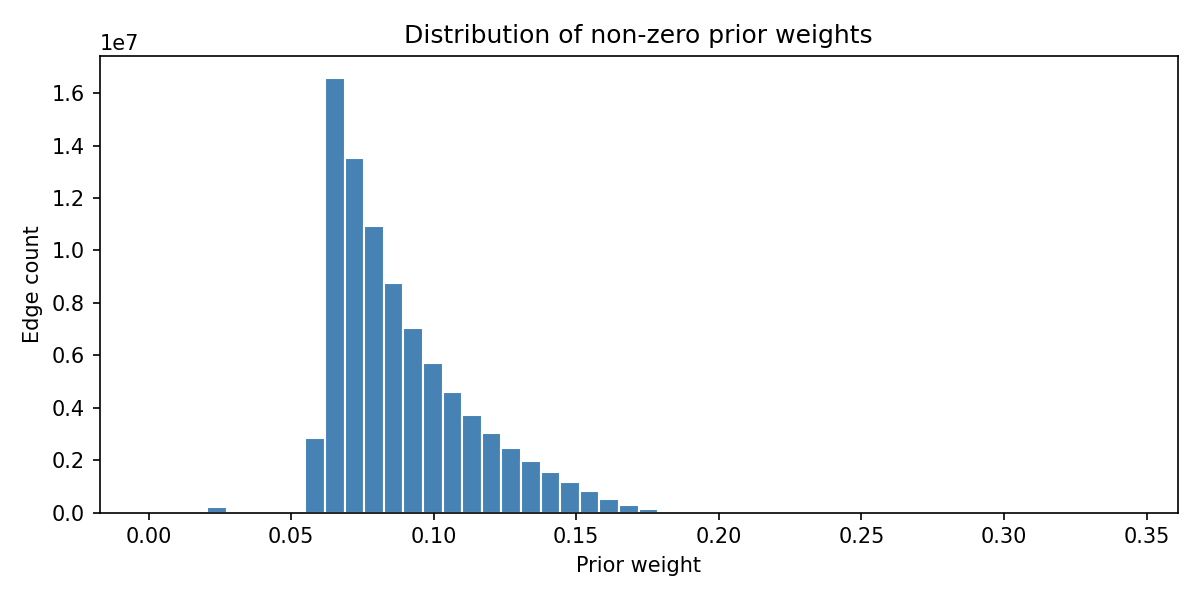
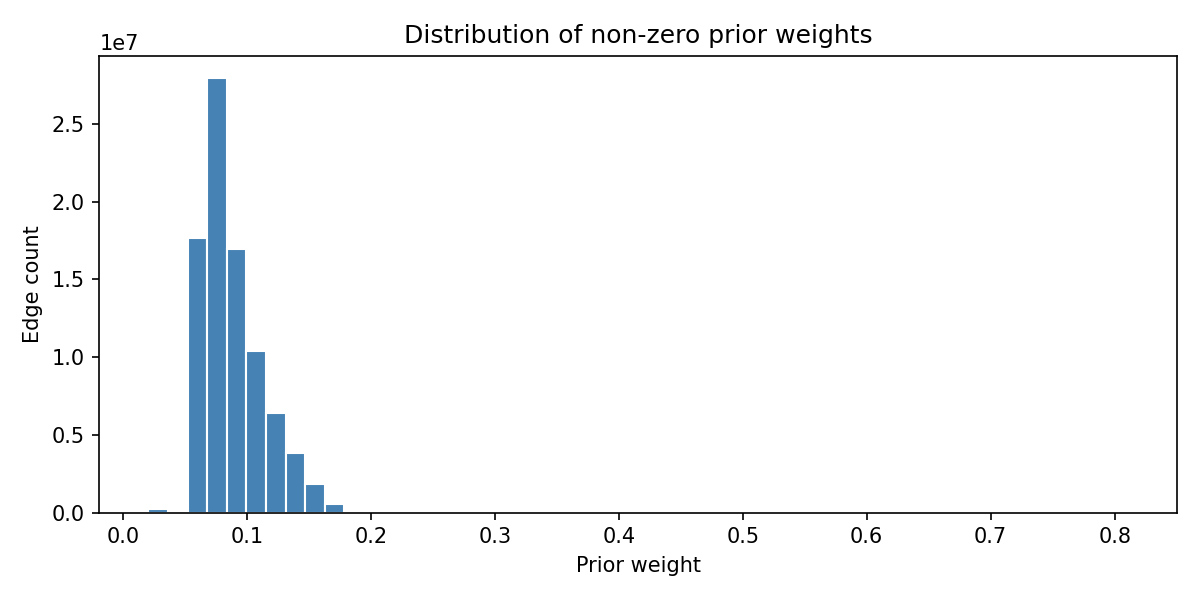
update plot scripts and prior distribution figure

diff --git a/pipeline_src/knockouts/plot_knockouts.py b/pipeline_src/knockouts/plot_knockouts.py
@@ -30,7 +30,11 @@ warnings.filterwarnings("ignore")
 matplotlib.rcParams.update({
     "font.family":     "sans-serif",
     "font.sans-serif": ["Arial", "Helvetica", "DejaVu Sans"],
-    "font.size":       9,
+    "font.size":       12,
+    "axes.labelsize":  13,
+    "xtick.labelsize": 12,
+    "ytick.labelsize": 12,
+    "legend.fontsize": 12,
     "figure.dpi":      150,
     "pdf.fonttype":    42,
     "ps.fonttype":     42,
@@ -136,10 +140,11 @@ def plot_knockout_bar(ko: pd.DataFrame, out_stem: str, dataset: str,
 
     ax.barh(range(len(genes)), scores, color=colors, edgecolor="none", height=0.7)
     ax.set_yticks(range(len(genes)))
-    ax.set_yticklabels(genes, fontsize=8.5)
+    ax.set_yticklabels(genes, fontsize=12)
     ax.invert_yaxis()
 
-    ax.set_xlabel("Perturbative impact  (max‖ΔS(t)‖₂)", fontsize=10)
+    ax.set_xlabel("Perturbative impact  (max‖ΔS(t)‖₂)", fontsize=13)
+    ax.set_ylabel("Genes", fontsize=13)
     ax.spines[["top", "right"]].set_visible(False)
     ax.grid(axis="x", lw=0.4, alpha=0.4)
 
@@ -151,15 +156,9 @@ def plot_knockout_bar(ko: pd.DataFrame, out_stem: str, dataset: str,
     ]
     handles.append(mpatches.Patch(facecolor=UNCHARACTERISED_COLOR,
                                   edgecolor="none", label="Uncharacterised"))
-    ax.legend(handles=handles, fontsize=7.5, frameon=True,
+    ax.legend(handles=handles, fontsize=12, frameon=True,
               framealpha=0.9, edgecolor="#cccccc", loc="lower right",
               labelspacing=0.4)
-
-    fig.suptitle(f"Top {TOP_N} genes by knockout impact", fontsize=12,
-                 fontweight="bold", y=0.995)
-    ax.set_title(f"{dataset}  ·  acute phase  ·  model = {model}  ·  "
-                 f"reduction = {REDUCTION}",
-                 fontsize=8, color="black", pad=2)
 
     fig.tight_layout()
     for ext in ("pdf", "png"):

diff --git a/pipeline_src/inference/plot_piglasso_results.py b/pipeline_src/inference/plot_piglasso_results.py
@@ -189,12 +189,6 @@ def plot_lambda_path(out_stem: str, dpi: int = 200):
     ax.set_xlim(left=lam[0], right=1.0)
     ax.set_xlabel("Regularisation parameter λ", fontsize=13)
     ax.set_ylabel("Number of stable edges", fontsize=13)
-    ax.set_title(
-        "GSE182616  ·  acute phase  ·  n = 513, p = 164  ·  "
-        "solid = with prior (pw = 0.5)  ·  dashed = no prior",
-        fontsize=11, color="black", pad=4,
-    )
-    fig.suptitle("PIGLasso stability path", fontsize=15, fontweight="bold", y=0.995)
 
     handles, labels = ax.get_legend_handles_labels()
     ax.legend(handles, labels, fontsize=9, frameon=True,

diff --git a/pipeline_src/build_prior.py b/pipeline_src/build_prior.py
@@ -100,7 +100,7 @@ def _query_string_batch(
             continue
         if g1 in gene_idx and g2 in gene_idx:
             i, j = gene_idx[g1], gene_idx[g2]
-            w = exp_score / 1000.0
+            w = exp_score  # API v12 returns scores in [0, 1] directly
             if w > P[i, j]:
                 P[i, j] = w
                 P[j, i] = w